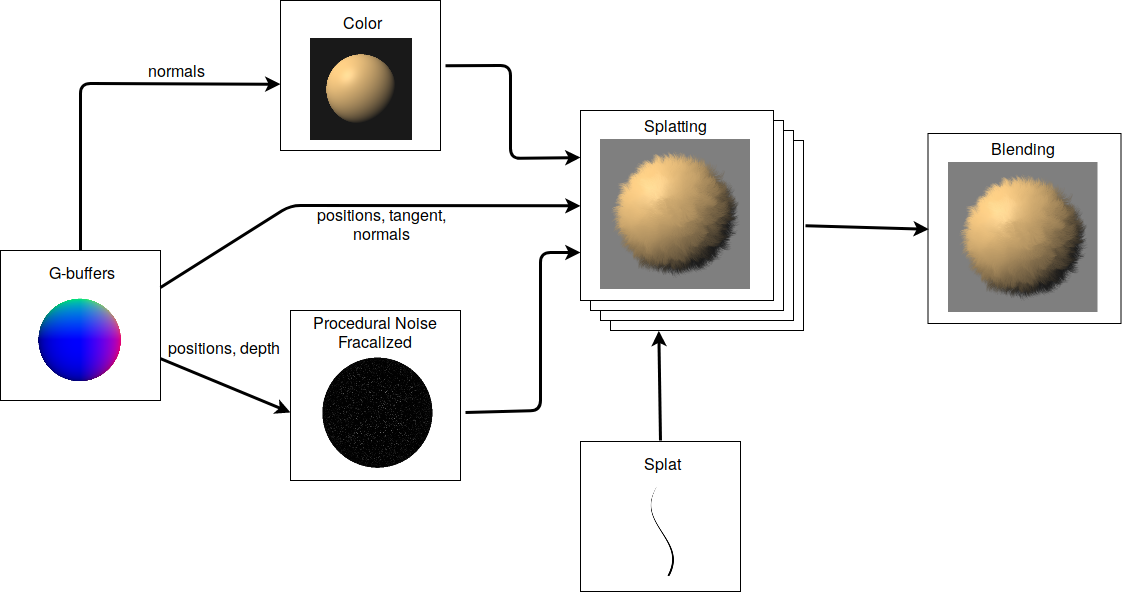
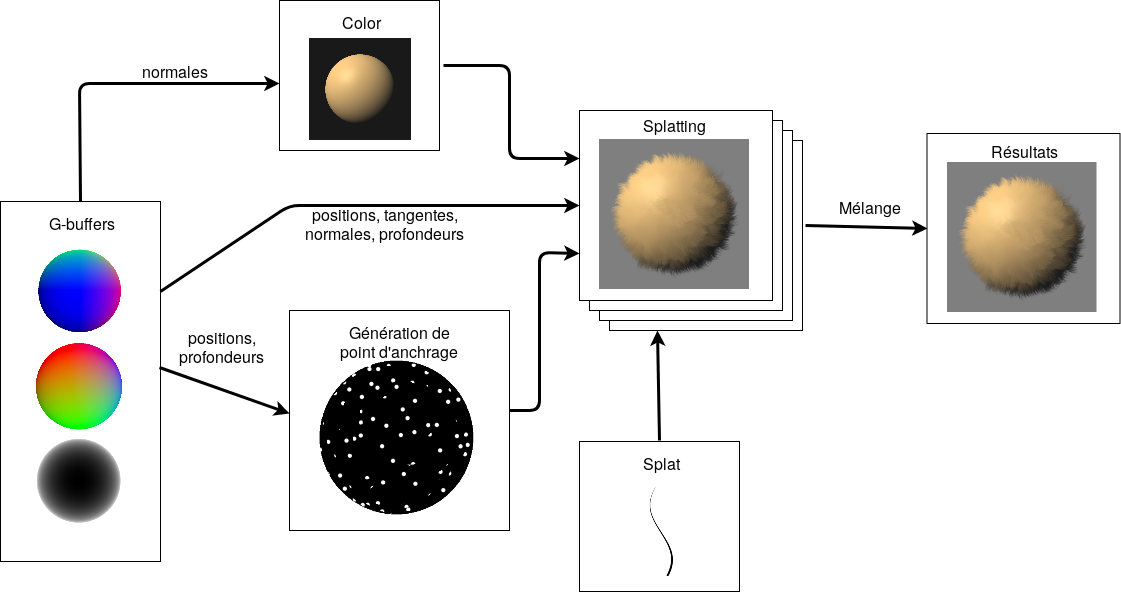
correction slides

diff --git a/presentation/index.html b/presentation/index.html
@@ -300,6 +300,17 @@
 				</aside>
 			</section>
 
+			<section>
+				<h3>Conclusion état de l'art</h3>
+
+				<ul>
+					<li class="fragment">Espace image avec G-buffer</li>
+					<li class="fragment">Marques</li>
+					<li class="fragment">Contrôle par l'artiste</li>
+					<li class="fragment">Cohérence temporelle</li>
+				</ul>
+			</section>
+
 
 			<section class="sommaire">
 				<!-- <img id="decoration1" src="images/slide.png" alt="deco"> -->
@@ -319,9 +330,27 @@
 				<h2>Étape du compositing</h2>
 
 				<ul>
+					<li>Espace image</li>
 					<li class="fragment">informations sur la géometrie déjà rendu</li>
 					<li class="fragment">peut être intégrer dans des pipelines sans structure particulière</li>
 				</ul>
+
+				<div class="horizontal styles">
+					<div class="vertical">
+						<span class="captionImage">Normales</span>
+						<img src="images/noises/Gbuffernormales.png" alt="normales">
+					</div>
+
+					<div class="vertical">
+						<span class="captionImage">Positions</span>
+						<img src="images/noises/Gbufferposition.png" alt="positions">
+					</div>
+
+					<div class="vertical">
+						<span class="captionImage">Profondeur</span>
+						<img src="images/noises/Gbufferprofondeur.png" alt="profondeur">
+					</div>
+				</div>
 
 				<aside class="notes">
 					avant de parler de notre solution
@@ -337,7 +366,7 @@
 			<section>
 				<h2>Vue d'ensemble</h2>
 
-				<img src="images/Overview2.png" alt="overview">
+				<img src="images/Overview.png" alt="overview">
 
 				<aside class="notes">
 					expliquer chaque étape
@@ -356,7 +385,6 @@
 
 
 			<section>
-				<p class="partieNom">03. Stylisation procedurale</p>
 				<h2>Bruits procéduraux</h2>
 
 				<p>Examples de bruits procéduraux</p>
@@ -657,12 +685,11 @@
 			</section>
 
 			<section>
-				<p class="partieNom">04. Résultats</p>
 				<h3>Résultats</h3>
 
 				<div class="horizontal">
 					<div class="vertical">
-						<span class="captionImage">Couleur</span>
+						<span class="captionImage">Fourrure en peinture digitale</span>
 						<video loop>
 						<source data-src="images/resultats/bouleFur.mp4" type="video/mp4">
 							Sorry, your browser doesn't support embedded videos.
@@ -670,7 +697,7 @@
 					</div>
 
 					<div class="vertical fragment">
-						<span class="captionImage">Bruit</span>
+						<span class="captionImage">Peinture au pinceaux</span>
 						<video loop>
 						<source data-src="images/resultats/painting.mp4" type="video/mp4">
 							Sorry, your browser doesn't support embedded videos.
@@ -678,13 +705,17 @@
 					</div>
 
 					<div class="vertical fragment">
-						<span class="captionImage">Résultat</span>
+						<span class="captionImage">Dessin à partir de feuilles</span>
 						<video loop>
 						<source data-src="images/resultats/leave1.mp4" type="video/mp4">
 							Sorry, your browser doesn't support embedded videos.
 						</video>
 					</div>
 				</div>
+
+				<aside class="notes">
+					présenter les résultats et ce qu'on voulait fire
+				</aside>
 
 			</section>
 
